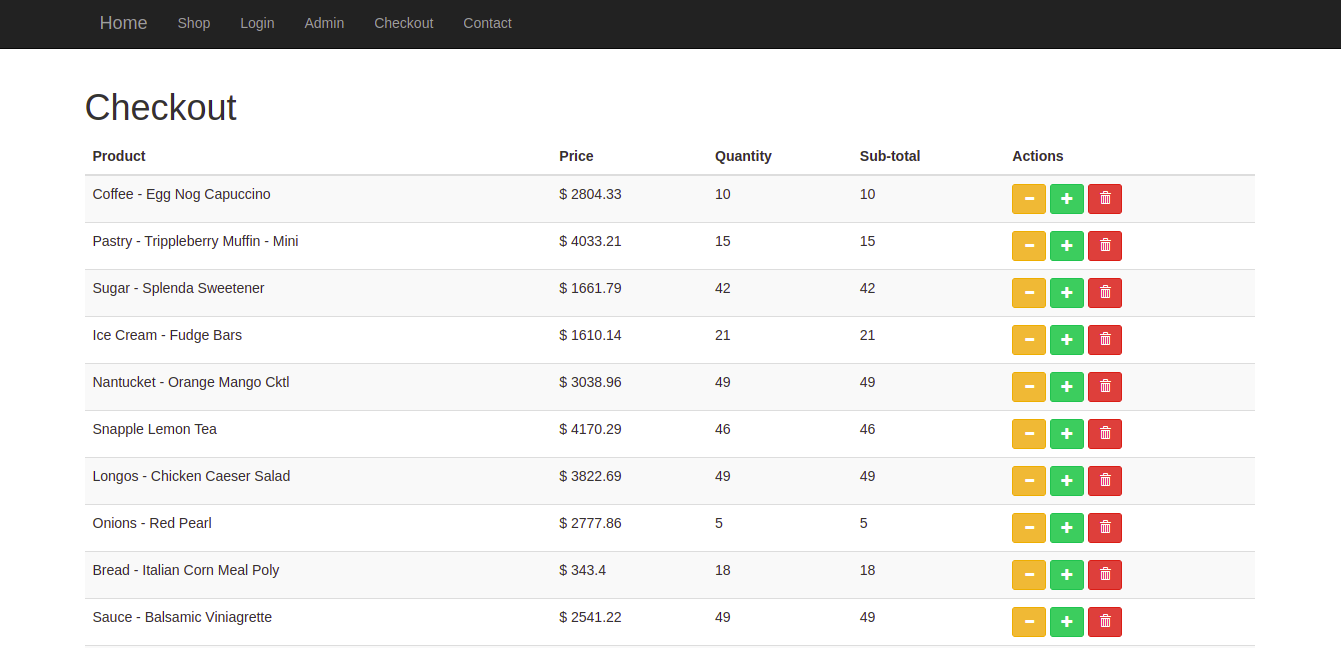
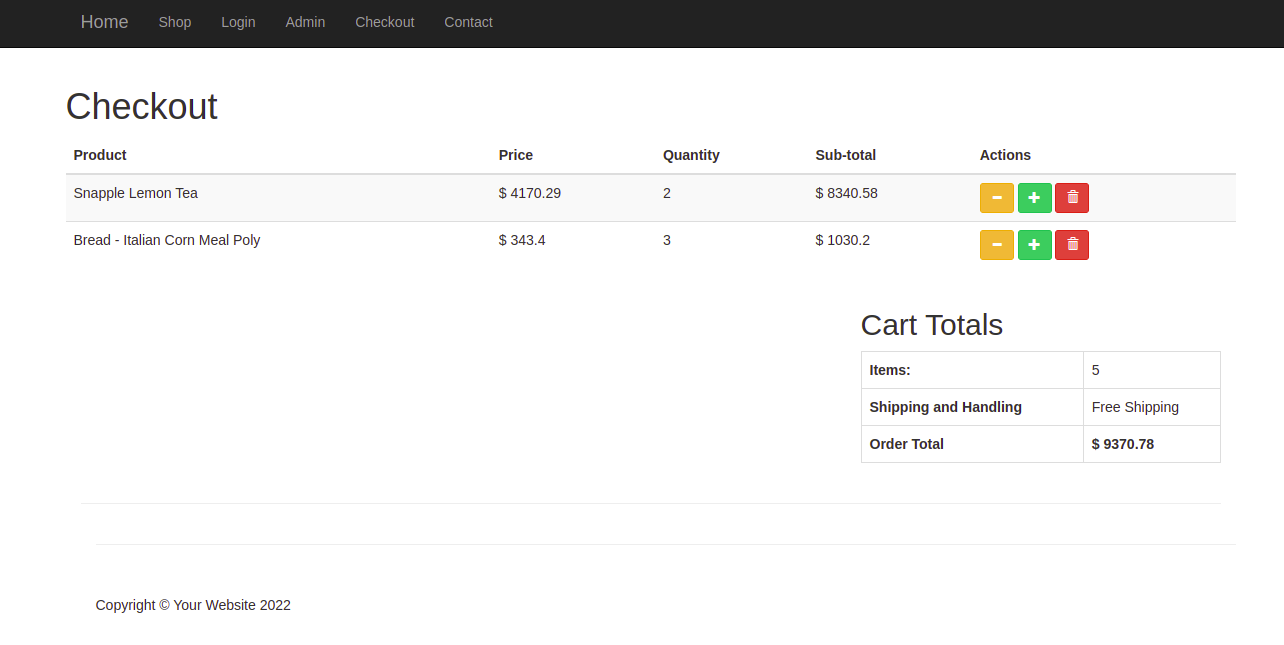
CART - getting total

diff --git a/public/checkout.php b/public/checkout.php
@@ -1,17 +1,11 @@
 <?php 
 
 require_once("../resources/config.php");
-
 include(TEMPLATE_FRONT . DS . "header.php");
 
 ?>
 
-
-<!-- Page Content -->
 <div class="container">
-
-
-  <!-- /.row --> 
 
   <div class="row">
 
@@ -24,64 +18,59 @@ include(TEMPLATE_FRONT . DS . "header.php");
     <h1>Checkout</h1>
 
     <form action="">
+
       <table class="table table-striped">
+
         <thead>
           <tr>
            <th>Product</th>
            <th>Price</th>
            <th>Quantity</th>
            <th>Sub-total</th>
-           <th>Actions</th>
-           
+           <th>Actions</th>           
          </tr>
+
        </thead>
-
-       <?php 
-       /*
-         echo '<br>';
-         print_r($_SESSION);
-         echo '</br>';
-       */
-       ?>
-
 
        <tbody>
          <?php cart() ?>
       </tbody>
 
-
     </table>
+
   </form>
 
 
 
   <!--  ***********CART TOTALS*************-->
-  
   <div class="col-xs-4 pull-right ">
     <h2>Cart Totals</h2>
 
     <table class="table table-bordered" cellspacing="0">
 
-      <tr class="cart-subtotal">
-        <th>Items:</th>
-        <td><span class="amount">4</span></td>
-      </tr>
-      <tr class="shipping">
-        <th>Shipping and Handling</th>
-        <td>Free Shipping</td>
-      </tr>
+      <tbody>
 
-      <tr class="order-total">
-        <th>Order Total</th>
-        <td><strong><span class="amount">$3444</span></strong> </td>
-      </tr>
+        <tr class="cart-subtotal">
+          <th>Items:</th>
+          <td>
+            <span class="amount"><?= total_itens_cart() ?></span>
+          </td>
+        </tr>
+        <tr class="shipping">
+          <th>Shipping and Handling</th>
+          <td>Free Shipping</td>
+        </tr>
 
+        <tr class="order-total">
+          <th>Order Total</th>
+          <td><strong><span class="amount">$ <?= total_order_cart() ?></span></strong> </td>
+        </tr>
 
-    </tbody>
+      </tbody>
 
-  </table>
+    </table>
 
-</div><!-- CART TOTALS-->
+  </div><!-- CART TOTALS-->
 
 </div><!--Main Content-->
 

diff --git a/resources/functions.php b/resources/functions.php
@@ -32,6 +32,7 @@ function cart() {
 			      <td>$ <?= $row['price'] ?></td>
 			      <td><?= $value ?></td>
 			      <td>$ <?= $row['price'] * $value ?></td>
+
 			      <td>
 			      	<!-- remopve apenas um  -->
 			      	<a class="btn btn-sm btn-warning" href="cart.php?remove=<?= $row['id'] ?>">
@@ -70,6 +71,69 @@ function cart() {
 	}
 
 } // end function cart()  
+
+
+
+
+
+
+
+function total_itens_cart() {
+
+	$total_itens = 0;
+
+	foreach ($_SESSION as $name => $value) {
+
+		if ($value > 0) {
+			$total_itens += $value;
+		} 
+
+	} 
+		
+	return $total_itens;
+}
+
+
+
+
+
+
+function total_order_cart() {
+	
+	$total_order = 0;
+
+	// pegando o id correto
+	foreach ($_SESSION as $name => $value) {
+
+		if ($value > 0) {
+
+			// quantidade em sessão
+			$quantity = $name;
+
+			// descobre o id descontando pelo tamanho da string
+			$lenght = strlen($name);
+			
+			$id = substr($name, 8, $lenght);
+
+			if (substr($name, 0, 8) == 'product_') {
+				
+			  $query = query("SELECT * FROM products WHERE id = $id");
+			  confirm($query);
+
+			  while($row = fetch_array($query)) {
+			     	
+			    $total_order += $row['price'] * $value;
+
+			  } // end while
+
+			} // end if subtr()
+
+		} // if ($value > 0) 
+
+	} // end foreach()
+
+	echo $total_order;
+}
 
 
 
